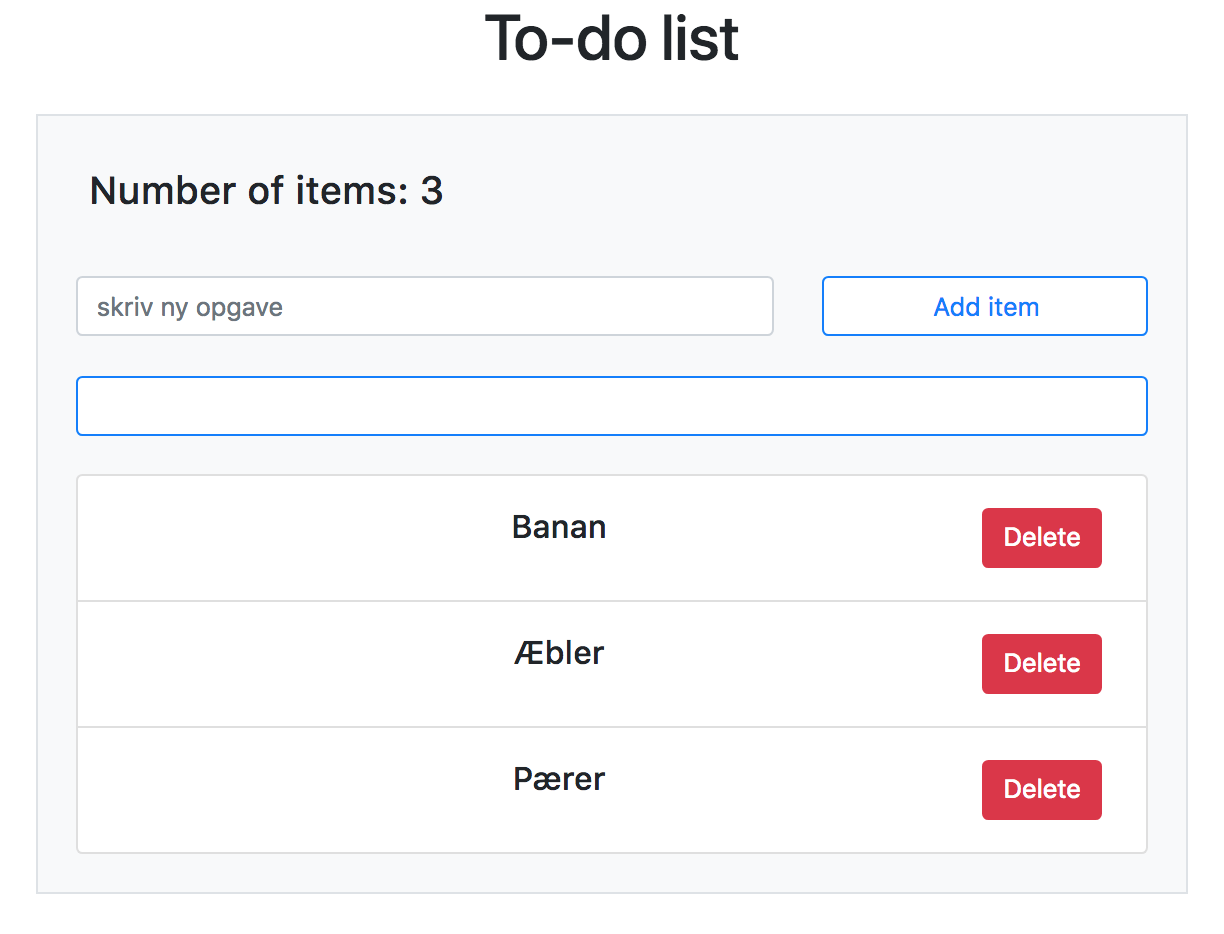
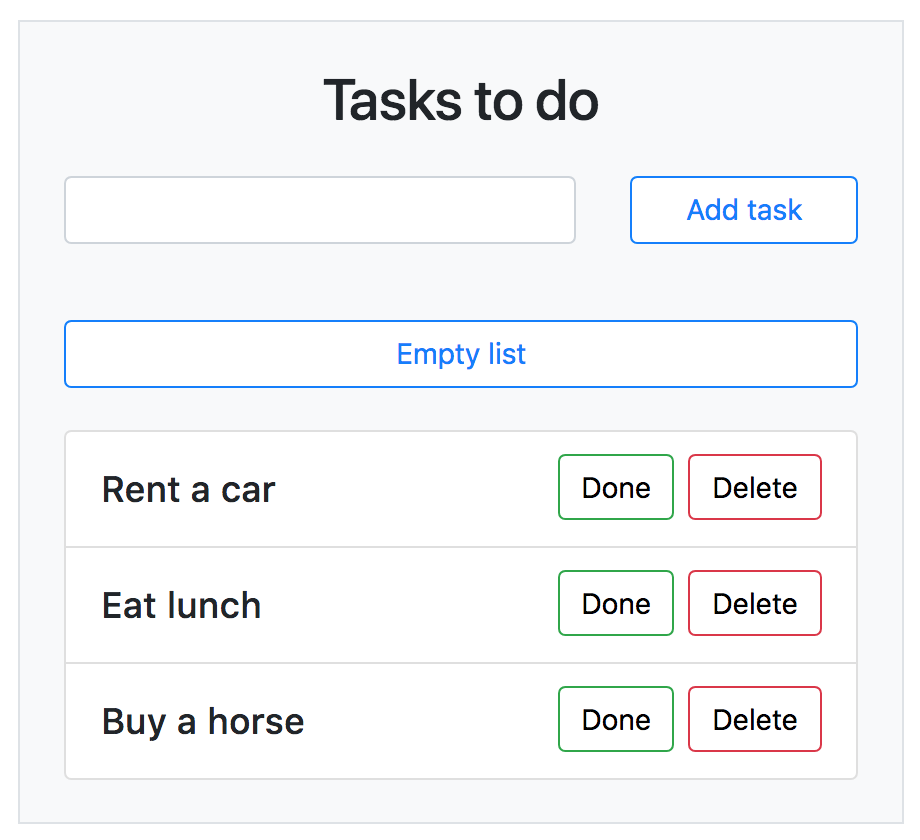
changes

diff --git a/js/index.js b/js/index.js
@@ -6,15 +6,9 @@ $(document).ready(function(){
 	const projects_position = $('#projects').offset().top;
 	const cv_position = $("#cv").offset().top;	
 
-
 	//Scroll css functionality
 	$(window).scroll(function() {
-		if ($(window).scrollTop() < (home_position+100) ) {
-			$("a.current").removeClass("current");
-		 	$("#homeButton").addClass("current");
-		}
-		
-		if ($(window).scrollTop() >= (projects_position-100) ) {
+		if ($(window).scrollTop() >= (projects_position-200) ) {
 			$("a.current").removeClass("current");
 		 	$("#projectsButton").addClass("current");
 		}
@@ -23,22 +17,23 @@ $(document).ready(function(){
 		if ($(window).scrollTop() >= (cv_position-100) ) {
 			$("a.current").removeClass("current");
 		 	$("#cvButton").addClass("current");
+		}	
+
+		if ($(window).scrollTop() < (home_position+50) ) {
+			$("a.current").removeClass("current");
+		 	$("#homeButton").addClass("current");
 		}
-		
-		
-		
 	});
 
 	//Text content	
 	//Hero
-	$("#hero_tagline").text("Frontend udvikling");
+	$("#hero_tagline").text("Frontend-udvikling");
 	$("#hero_headline").text("Jens Kjær");
 
 	//Projects
-	$("#section_header_1").text("Portefolio");
 
 	$("#projects_category_header_1").text("Webshop eksempel");
-	$("#projects_category_header_2").text("To-do liste");
+	$("#projects_category_header_2").text("To-do liste app");
 	$("#projects_category_header_3").text("Liverpool resultater API");
 
 	$("#projects_category_subheader_1").text("React & Redux projekt");
@@ -48,10 +43,8 @@ $(document).ready(function(){
 	$(".projects_github").text("Github");
 
 	//CV
-	$("#section_header_2").text("CV");
-
 	$("#cv_name").text("Jens Kjær");
-	$("#cv_tagline").text("Frontend udvikler med forretningsforståelse");
+	$("#cv_tagline").text("Frontend udvikler");
 	$("#cv_phone").text("61 65 47 76");
 	
 	$("#cv_programing_headline").text("Programmering");
@@ -59,7 +52,7 @@ $(document).ready(function(){
 
 	$("#cv_course_headline").text("Kurser");
 	$("#cv_course_1").text("Front-end med React og Redux");
-	$("#cv_course_2").text("Journalistikens grundtrin");
+	$("#cv_course_2").text("Journalistikkens grundtrin");
 
 	$("#cv_language_headline").text("Sprog");
 	$("#cv_language").text("Dansk, tysk og engelsk");	
@@ -78,6 +71,6 @@ $(document).ready(function(){
 	$("#footer_city").text("2200 København N");
 	$("#footer_linkedin").text("www.linkedin.com");
 	$("#footer_copyright").text("");
-	$("#footer-tagline").text("Frontend udvikling");
+	$("#footer-tagline").text("Frontend-udvikling");
 	$("#footer_url").text("Jenskjr.dk");
 });

diff --git a/website.html b/website.html
@@ -18,17 +18,17 @@
 	<link rel="stylesheet" type="text/css" href="./website/css/index.css">
 	<script src="./website/js/index.js"></script>
 </head>
-<body data-spy="scroll" data-target=".navbar" data-offset="50">
+<body>
 
 <!--Navigation-->
 <div class="text-center card-header fixed-top bg-light">
 	<div class="container">
 	    <ul class="nav nav-pills card-header-pills">
 	      <li>
-	        <a id="homeButton" class="nav-link current" href="#">Home</a>
+	        <a id="homeButton" class="nav-link current" href="#top">Top</a>
 	      </li>
 	      <li>
-	        <a id="projectsButton" class="nav-link" href="#projects">Portefolio</a>
+	        <a id="projectsButton" class="nav-link" href="#projects">Projekter</a>
 	      </li>
 	      <li>
 	        <a id="cvButton" class="nav-link" href="#cv">CV</a>
@@ -50,30 +50,21 @@
 				<span style="color: #4f5b93"><i class="fab fa-php fa-3x mr-2 mb-2"></i></span>
 				<span><img class="align-top pt-2" src="./website/images/mysql.svg" width="100" alt="" ></span>
 			</div>
+		<div id="projects"></div>
 	</div>
 </div>	  
 
 <!--main section-->
 <!--projects-->
-<div id="projects" class="bg-green">
-	<div class="container">	
-		<div class="space"></div>	
-		<div class="row">	
-			
-			<!--
-			<div class="col-12 text-center text-white pt-4 pb-4">			
-				<h2 id="section_header_1"></h2>
-			</div>
-		-->
-		</div>
-		
+<div class="bg-green">
+	<div style="margin-top: -100px;" class="container">	
 		<div class="row">
 			<div class="col-lg-4 text-center">
 				<div class="card border border-dark bg-light p-4 mb-4 mt-4">
 					<a href="./webshop/" target="_blank">
 						<h4 id="projects_category_header_1" class="mb-4"></h4>
 						<div style="min-height: 280px" class="border border-dark bg-white">
-							<img style="max-width: 100%" class="p-1 pt-2" src="./website/images/webshop3.png">
+							<img style="max-width: 100%" class="p-1 pt-2" src="./website/images/webshop.png">
 						</div>
 						<h5 id="projects_category_subheader_1" class="pt-4"></h5>
 					</a>
@@ -85,7 +76,7 @@
 					<a href="./todoapp/" target="_blank">
 						<h4 id="projects_category_header_2" class="mb-4"></h4>
 						<div style="min-height: 280px" class="border border-dark bg-white">
-							<img style="max-width: 100%" class="p-1 pt-2 align-top" src="./website/images/todoApp2.png">
+							<img style="max-width: 100%" class="p-1 pt-2 align-top" src="./website/images/todoApp.png">
 						</div>
 						<h5 id="projects_category_subheader_2" class="pt-4"></h5>
 					</a>

diff --git a/css/index.css b/css/index.css
@@ -50,9 +50,9 @@ a:active {
 
 /*hero content*/
 .hero-image {
-	background-color: #41b3a3;
-	/*background-image: linear-gradient(rgba(0, 0, 0, 0.5), rgba(0, 0, 0, 0.5)), url("photographer.jpg");*/
-	height: 350px;
+
+	/*background-image: linear-gradient(rgba(0, 0, 0, 0.5), rgba(0, 0, 0, 0.5)), url("../images/heroBackCode.png");*/
+	height: 450px;
 	background-position: center;
 	background-repeat: no-repeat;
 	background-size: cover;
@@ -62,7 +62,7 @@ a:active {
 .hero-text {
   text-align: center;
   position: absolute;
-  top: 40%;
+  top: 35%;
   left: 50%;
   transform: translate(-50%, -20%);
   color: white;
@@ -92,7 +92,6 @@ a:active {
 
 /*xs*/
 @media all and (max-width: 575px) {
-
 }
 
 /*sm*/
@@ -102,14 +101,20 @@ a:active {
 
 /*md*/
 @media all and (max-width: 992px) and (min-width: 769px){
+  .hero-image {
+  background-image: linear-gradient(rgba(0, 0, 0, 0.5), rgba(0, 0, 0, 0.5)), url("../images/heroBackCode.png");}
 }
 
 /*lg*/
 @media all and (min-width: 993px) and (max-width: 1199px) {
+  .hero-image {
+  background-image: linear-gradient(rgba(0, 0, 0, 0.5), rgba(0, 0, 0, 0.5)), url("../images/heroBackCode.png");}
 }
 
 /*xlg*/
 @media all and (min-width: 1200px) {
+  .hero-image {
+  background-image: linear-gradient(rgba(0, 0, 0, 0.5), rgba(0, 0, 0, 0.5)), url("../images/heroBackCode.png");}  
 }
 
 
